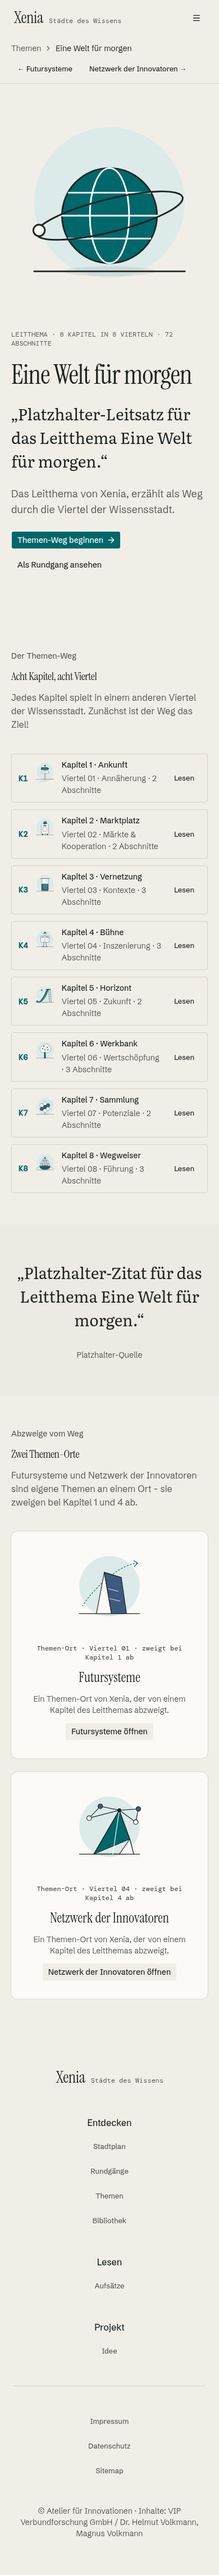
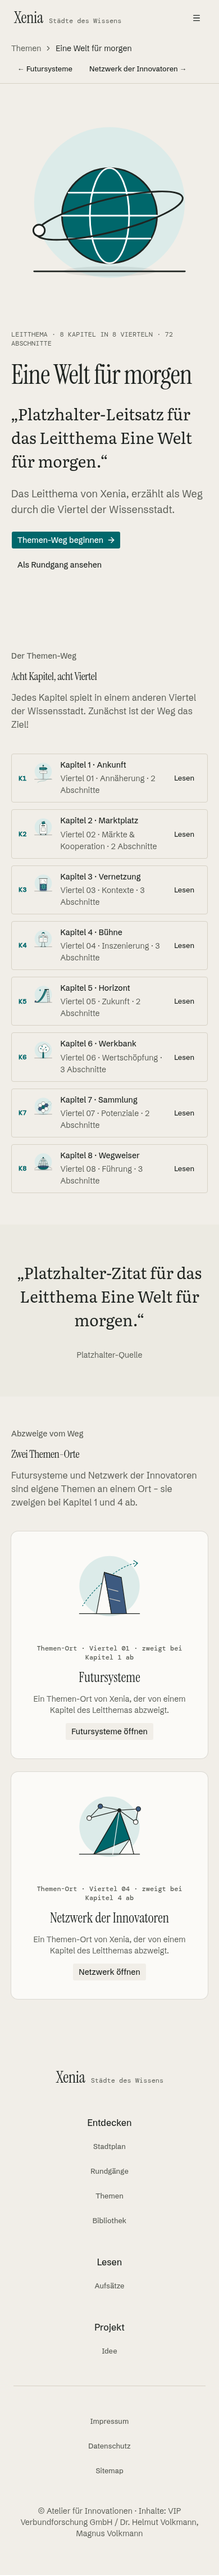
fix: T09a review fixes — chip size, cn import, test, card overflow (issue #126)
Prior review (issue #126) flagged the K1-K8 chapter badge using font-mono
text-sm (14px); the Legend Rule caps K1-K8 chapter chips at 11-13px on
every breakpoint, so it's now font-mono text-xs (12px), matching every
other mono chip in the codebase.

Fixed while verifying the rest of the diff against the repo's standards
and the Figma exports:

- testimonials-section-1.tsx imported cn from 'cn' instead of
  '@/lib/utils/cn'; every other adapted Pro Block (tagline.tsx,
  feature-section-9.tsx) uses the aliased import, because that's what the
  shadcn CLI's aliases.utils generates for registry items
  (folder-structure.md). Non-Pro-Blocks components correctly import from
  'cn' directly (component-blueprint.md) — this was the one Pro Block
  file that diverged from its own siblings.
- testimonials-section-1.tsx had no own test file; testing-conventions.md
  requires one per component "even when another component renders it",
  and feature-section-9.tsx (the sibling Pro Block) already has one.
  Added testimonials-section-1.test.tsx.
- thema-karte.tsx's text column had no min-w-0, so a flex item's default
  min-width (its content's natural single-line width) let a long title +
  button overflow past the card and the viewport at the 1024 breakpoint —
  visible in the review-evidence screenshots themselves, comparing the
  rendered 1024 page against its Figma export. Added min-w-0.
- netzwerk-der-innovatoren/index.mdx had no shortTitle, so its Abzweige
[…]

diff --git a/src/components/pro-blocks/landing-page/testimonials-sections/testimonials-section-1.test.tsx b/src/components/pro-blocks/landing-page/testimonials-sections/testimonials-section-1.test.tsx
@@ -1,0 +1,35 @@
+import { renderToStaticMarkup } from 'react-dom/server'
+import { describe, expect, it } from 'vitest'
+
+import type { Zitat } from '@/lib/content'
+
+import { TestimonialsSection1 } from './testimonials-section-1'
+
+const zitatMitZusatz: Zitat = {
+	text: 'Ein Zitat über die Stadt.',
+	quelle: 'Testquelle',
+	zusatz: 'Testzusatz',
+}
+
+const zitatOhneZusatz: Zitat = {
+	text: 'Ein weiteres Zitat.',
+	quelle: 'Testquelle',
+}
+
+describe('TestimonialsSection1', () => {
+	it('renders the quote and the quelle · zusatz attribution', () => {
+		const html = renderToStaticMarkup(<TestimonialsSection1 zitat={zitatMitZusatz} />)
+
+		expect(html).toContain('data-slot="testimonials-section-1"')
+		expect(html).toContain('Ein Zitat über die Stadt.')
+		expect(html).toContain('Testquelle · Testzusatz')
+	})
+
+	it('falls back to the quelle alone without a zusatz', () => {
+		const html = renderToStaticMarkup(<TestimonialsSection1 zitat={zitatOhneZusatz} />)
+
+		expect(html).toContain('Ein weiteres Zitat.')
+		expect(html).toContain('Testquelle')
+		expect(html).not.toContain('·')
+	})
+})

diff --git a/src/components/thema/leitthema-detail.tsx b/src/components/thema/leitthema-detail.tsx
@@ -125,7 +125,7 @@ async function LeitthemaDetail({ thema, locale: _locale, ...props }: LeitthemaDe
 						return (
 							<li key={kapitel.id}>
 								<Item render={<Link href={kapitel.url} />} variant="outline">
-									<span aria-hidden="true" className="font-mono text-sm font-semibold text-primary">
+									<span aria-hidden="true" className="font-mono text-xs font-semibold text-primary">
 										{t('thema.weg.kapitelBadge', { number: kapitel.number })}
 									</span>
 									<ItemMedia className="size-10">

diff --git a/src/components/thema/thema-karte.tsx b/src/components/thema/thema-karte.tsx
@@ -59,7 +59,7 @@ function ThemaKarte({
 				// eslint-disable-next-line restrictions/arbitrary-size-classes
 				className="size-[140px] shrink-0"
 			/>
-			<div className="flex flex-col gap-3 text-center md:text-left">
+			<div className="flex min-w-0 flex-col gap-3 text-center md:text-left">
 				<p className="font-mono text-xs font-medium text-muted-foreground">{label}</p>
 				<p className="font-heading text-2xl text-foreground">{title}</p>
 				<p className="text-sm text-muted-foreground">{text}</p>

diff --git a/src/components/pro-blocks/landing-page/testimonials-sections/testimonials-section-1.tsx b/src/components/pro-blocks/landing-page/testimonials-sections/testimonials-section-1.tsx
@@ -1,8 +1,8 @@
-import { cn } from 'cn'
 import type * as React from 'react'
 
 import type { Zitat } from '@/lib/content'
 import { t } from '@/lib/dictionary'
+import { cn } from '@/lib/utils/cn'
 
 interface TestimonialsSection1Props extends React.ComponentProps<'section'> {
 	zitat: Zitat
